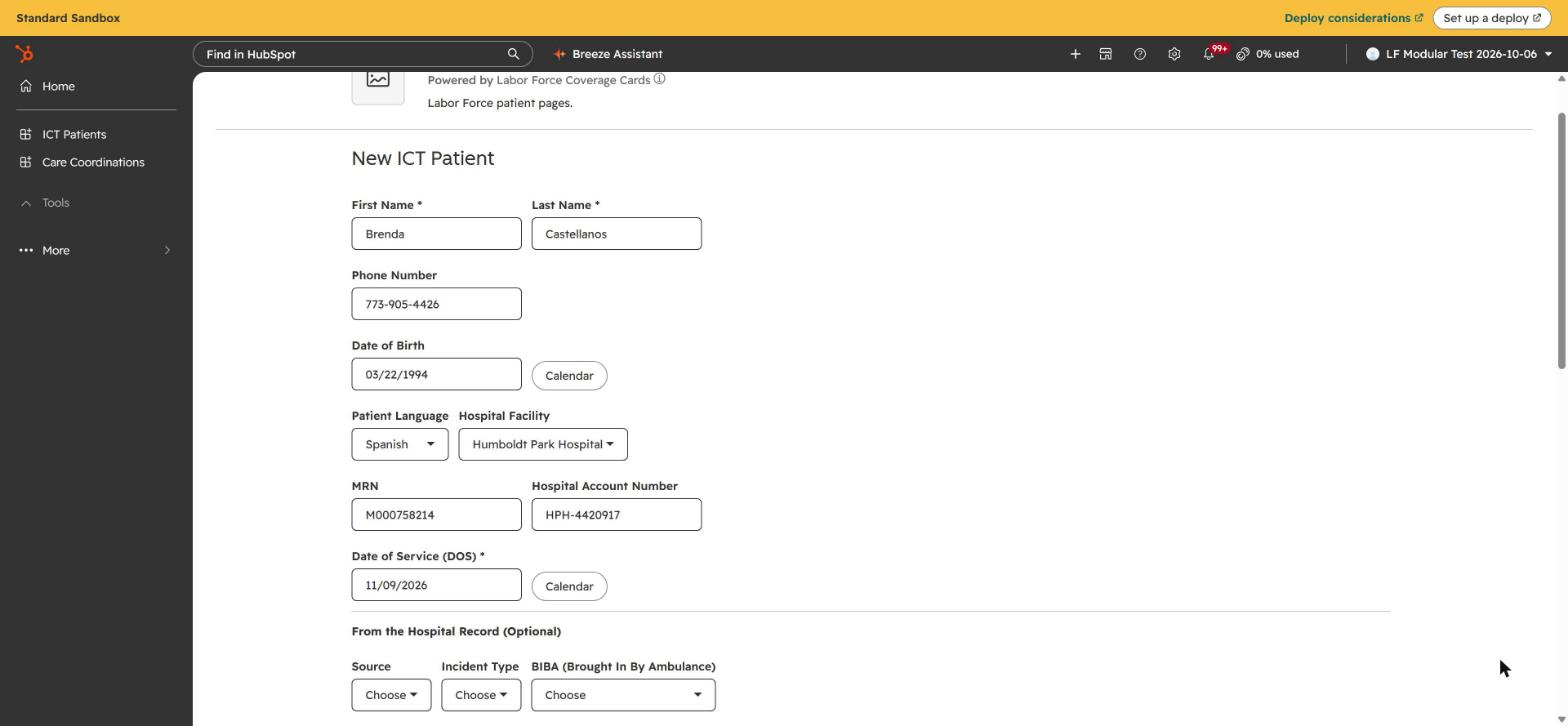
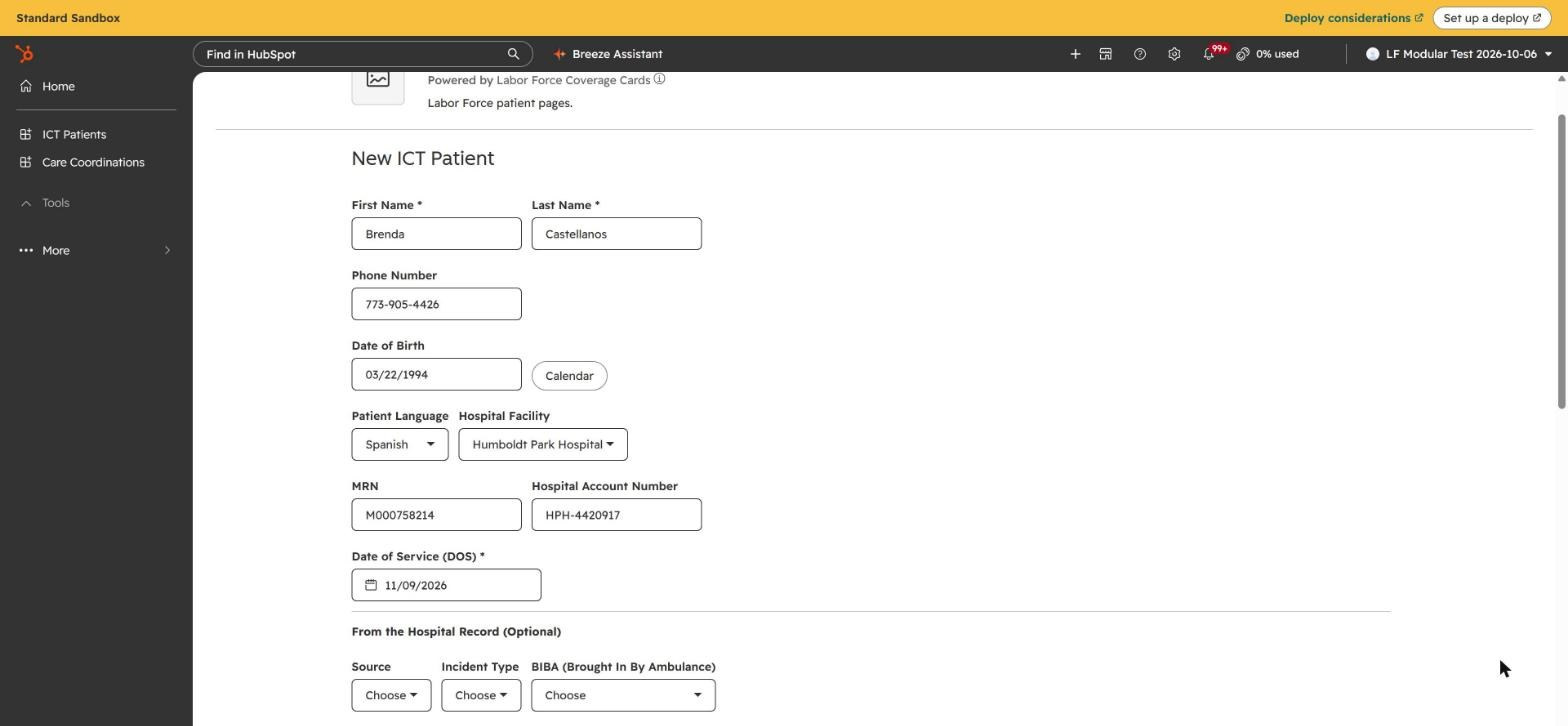
New ICT Patient picture: Date of Service is a calendar box (D254)

diff --git a/data.js b/data.js
@@ -2217,7 +2217,7 @@ window.DATA = {
      "rect": [
       352,
       549,
-      256,
+      190,
       53
      ],
      "text": "For a new patient you type it first, on the New ICT Patient page: Date of Service (DOS).",
@@ -2728,7 +2728,7 @@ window.DATA = {
      "rect": [
       352,
       549,
-      256,
+      190,
       53
      ],
      "text": "On the New ICT Patient page: A new patient with the new DOS.",

diff --git a/build.py b/build.py
@@ -99,7 +99,7 @@ TARGETS = {
     'HPH ER': [('new-patient', [459, 408, 170, 53], 'Hospital Facility'), ('ed-visit', [571, 292, 190, 38], 'Hospital Facility')],
     'Patient Engagement Specialist': [('overview-1', [881, 465, 200, 40], 'Owner')],
     'Date Of Injury (DOI)': [('ed-visit', [974, 292, 180, 38], 'Date of Injury'), DATE_OF_INJURY],
-    '(new) Date of Service (DOS)': [('new-patient', [352, 549, 256, 53], 'Date of Service (DOS)'), ('ed-visit', [772, 292, 190, 38], 'Date of Service (DOS)')],
+    '(new) Date of Service (DOS)': [('new-patient', [352, 549, 190, 53], 'Date of Service (DOS)'), ('ed-visit', [772, 292, 190, 38], 'Date of Service (DOS)')],
     'BIBA': [('ed-visit', [571, 432, 190, 38], 'BIBA')],
     'Chief Complaint / CHIEF COMPLAINT': [INJURY],
     'Provider Notes': [('ed-notes-hpi', [569, 325, 575, 191], "HPI Notes: the doctor's notes, in ED Visit Notes")],
@@ -110,7 +110,7 @@ TARGETS = {
                             ('log-call', [927, 579, 380, 26], 'A follow-up task: its time is the Callback Time')],
     'INTAKE TIMESTAMP': [('overview-1', [1257, 377, 243, 108], 'Created: recorded by the system')],
     'LINK TO PATIENT FILES': [('overview-1', [554, 358, 612, 62], 'All Files'), ('insurance-top', [572, 416, 270, 112], 'Police / Crash Report, Case Files')],
-    'Came Back to ER': [('new-patient', [352, 549, 256, 53], 'A new patient with the new DOS')],
+    'Came Back to ER': [('new-patient', [352, 549, 190, 53], 'A new patient with the new DOS')],
     'Lead Owner': [('overview-1', [881, 465, 200, 40], 'Owner')],
     'Calling Team Agent': [('overview-2', [556, 203, 298, 167], 'Last Contact: who called')],
     'CONTACT DATE': [('overview-2', [556, 203, 298, 167], 'Last Contact: when, and how many attempts'), ('log-call', [927, 373, 172, 56], 'Activity date')],
